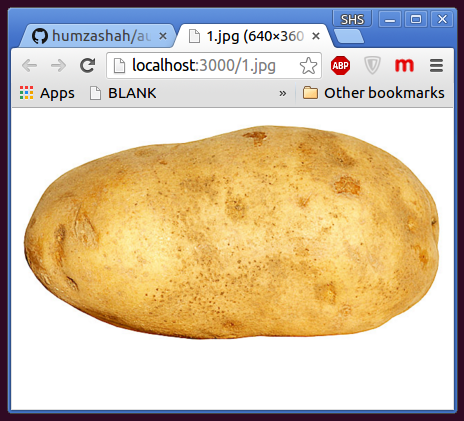
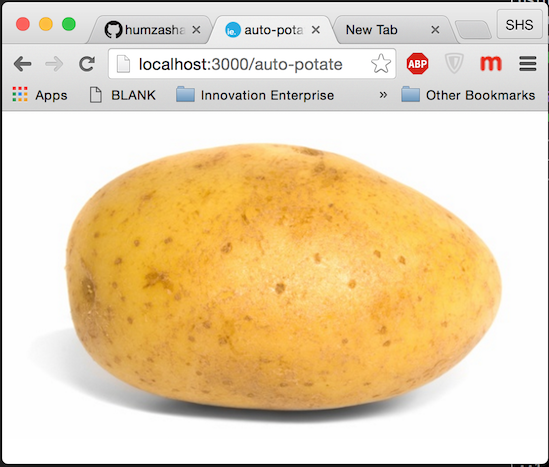
created multi-framework setup

diff --git a/frameworks/sinatra/tests/app_test.rb b/frameworks/sinatra/tests/app_test.rb
@@ -1,0 +1,24 @@
+ENV['RACK_ENV'] = 'test'
+
+require_relative '../app'
+require 'test/unit'
+require 'rack/test'
+
+class AppTest < Test::Unit::TestCase
+  include Rack::Test::Methods
+
+  def app
+    AutomaticPotatoApp
+  end
+
+  def test_it_returns_image
+    get '/auto-potate'
+    content_types = %w(
+      image/gif
+      image/jpeg
+      image/jpg
+    )
+    content_type = last_response.content_type
+    assert_includes(content_types, content_type)
+  end
+end

diff --git a/frameworks/sinatra/app.rb b/frameworks/sinatra/app.rb
@@ -1,0 +1,15 @@
+require 'sinatra'
+require 'pathname'
+
+class AutomaticPotatoApp < Sinatra::Base
+  POTATOES = begin
+    Dir[File.expand_path('../../../public/**', __FILE__)]
+  end
+
+  get '/auto-potate' do
+    file = POTATOES.sample
+    mod_time = Time.new
+
+    send_file file, last_modified: Time.new
+  end
+end

diff --git a/README.md b/README.md
@@ -2,6 +2,14 @@
 
 [![Build Status](https://travis-ci.org/humzashah/automatic-potato.svg?branch=master)](https://travis-ci.org/humzashah/automatic-potato)
 
+With this project, I originally planned to have some fun. Later, I decided to used this simple structure as a small experiment to compare different frameworks. Each framework has its own folder in the `frameworks` directory. Each of these folders has its own `README.md` which you can have a look to see how to get the project running.
+
+### Example Output in Browser for Each Framework
+
+![result](https://raw.githubusercontent.com/humzashah/automatic-potato/master/docs/images/result.png)
+
+## Origin
+
 **Kristopher Johnson** made an excellent suggestion which this project is a result of:
 
 [![source](https://raw.githubusercontent.com/humzashah/automatic-potato/master/docs/images/source.png)](https://twitter.com/OldManKris/status/673184195485790208)
@@ -9,18 +17,3 @@
 GitHub suggested the following repository name:
 
 ![github-suggestion](https://raw.githubusercontent.com/humzashah/automatic-potato/master/docs/images/github-suggestion.png)
-
-### Usage
-
-Clone the repo. Run the following in your terminal:
-
-    bundle install
-    bundle exec rackup
-
-Visit `http://localhost:9292` to automatically reap a potato!
-
-Custom ports can be set with `bundle exec rackup -p PORT_NUMBER`
-
-### Example Output
-
-![result](https://raw.githubusercontent.com/humzashah/automatic-potato/master/docs/images/result.png)

diff --git a/frameworks/sinatra/README.md b/frameworks/sinatra/README.md
@@ -1,0 +1,23 @@
+## [Sinatra](https://github.com/sinatra/sinatra)
+
+Built using Ruby version 2.2.3.
+
+### Usage
+
+Clone the repo. `cd` into the folder where this `README.md` lives.
+
+Install the gems:
+
+    bundle install
+
+Run the following to start your server:
+
+    bundle exec rackup
+
+Visit `http://localhost:3000/auto-potate` to automatically reap a potato!
+
+### Tests
+
+After installing gems, run the following from the same folder:
+
+    RACK_ENV=test bundle exec ruby tests/**/*.rb
